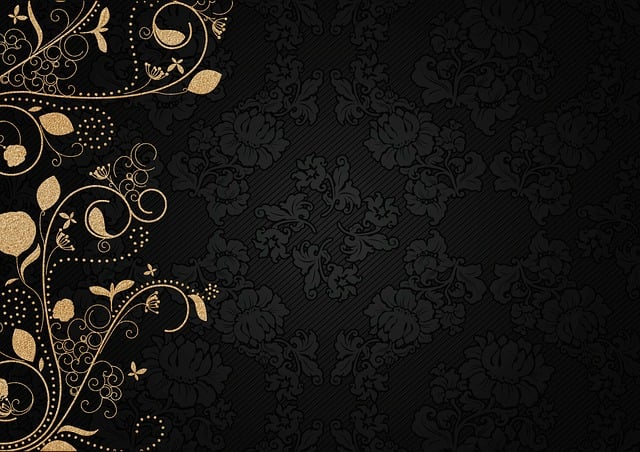
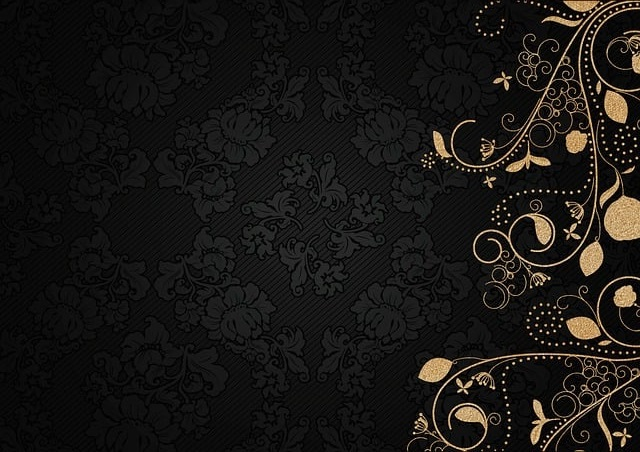
progress

diff --git a/index.html b/index.html
@@ -8,12 +8,75 @@
 </head>
 <body>
     <div class="container">
-        <img src="/assets/img/art-3561710_640.jpg" alt="">
+        
         <div class="form-area">
             <form action="" method="post">
                 <div class="header">
                     <h2>Contact Form</h2>
                     <p>Please fill in your information and we will be sending our order in no time</p>
+                </div>
+                <div class="form-table">
+                    <table>
+                        <tr>
+                            <td>
+                                Your Name
+                            </td>
+                            <td>
+                                <input type="text">
+                            </td>
+                            <td>
+                                <input type="text">
+                            </td>
+                        </tr>
+                        <tr>
+                            <td>
+                                Your Email
+                            </td>
+                            <td>
+                                <input type="text">
+                            </td>
+                        </tr>
+                        <tr>
+                            <td>
+                                Phone
+                            </td>
+                            <td>
+                                <input type="text">
+                            </td>
+                            <td>
+                                <input type="text">
+                            </td>
+                            <td>
+                                <input type="text">
+                            </td>
+                        </tr>
+                        <tr>
+                            <td>
+                                Message Subject
+                            </td>
+                            <td>
+                                <select name="Other" id="Other">
+                                    <option value="">Other</option>
+                                </select>
+                            </td>
+                        </tr>
+                        <tr>
+                            <td>Message</td>
+                            <td>
+                                <textarea name="" id=""></textarea>
+                            </td>
+                        </tr>
+                        <tr>
+                            <td>
+                                Verification*
+                            </td>
+                            <td>
+                                <div class="captcha-box">
+                                    
+                                </div>
+                            </td>
+                        </tr>
+                    </table>
                 </div>
             </form>
         </div>

diff --git a/assets/styles/style.css b/assets/styles/style.css
@@ -3,20 +3,27 @@
     margin: 0;
     box-sizing: border-box;
 }
+body {
+    background-image: url('/assets/img/art-3561710_640.jpg');
+    background-repeat: no-repeat;
+    background-attachment: fixed;
+    background-size: 100% 100%; 
+}
 .container {
     border: 1px solid black;
     height: 100vh;
     width: 100%;
-    
+    display: flex;
+    align-items: center;
+    padding-left: 50px;
 }
-img {
-    height: 100vh;
-    width: 100%;
-    object-fit: cover;
-    transform: scaleX(-1);
-    z-index: -1;
-}
-.form-area {
 
+.form-area {
+    height: 80%;
+    width: 80%;
+    color: white;
+}
+.captcha-box {
+    
 }
 
